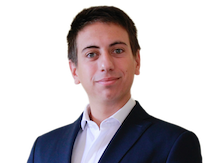
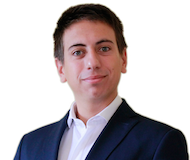
Fix new picture ratio

diff --git a/_includes/contact.html b/_includes/contact.html
@@ -11,5 +11,5 @@
             </div>
         {% endfor %}
     </div>
-    <img src="/assets/images/profile-no-bg.png" class="img-fluid flex-lg-grow-0 flex-grow-1">
+    <img src="/assets/images/profile1-no-bg.png" class="img-fluid flex-lg-grow-0 flex-grow-1">
 </div>
